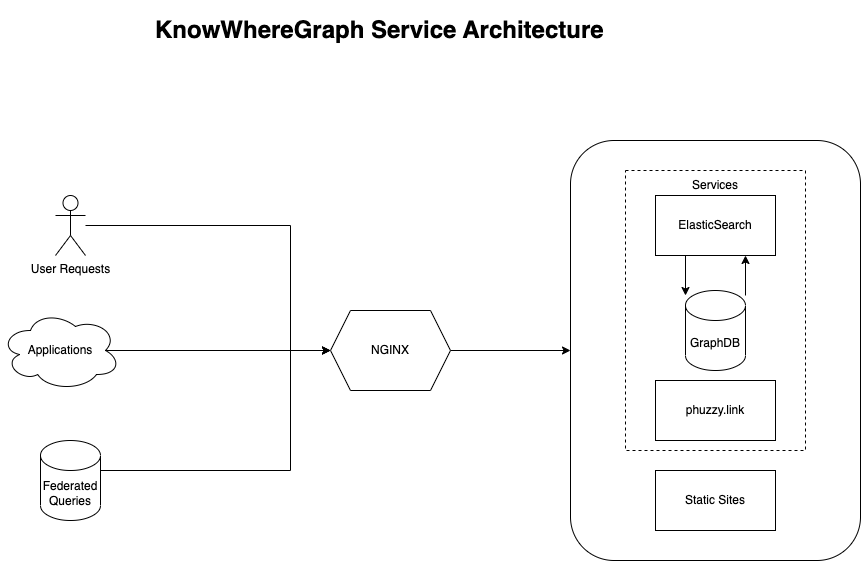
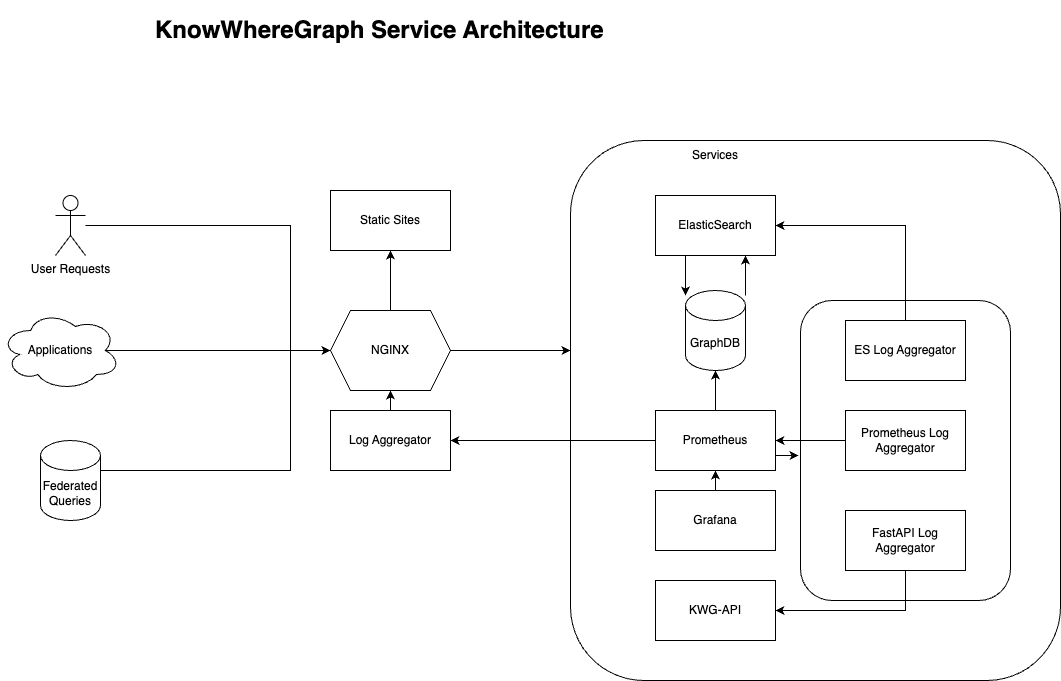
Update architecture with kwg-api and log fetchers

diff --git a/architecture/README.md b/architecture/README.md
@@ -4,17 +4,11 @@ KnowWhereGraph's networking and service architecture
 
 ## Overview
 
-NGINX serves as the load balancer and reverse proxy to internal services. Several static sites are served directly by NGINX. These include the ontology description pages and the [faceted search](https://github.com/KnowWhereGraph/kwg-faceted-search). The files reside on the host's disk which is mounted by NGINX.
+NGINX serves as the load balancer and reverse proxy to internal services. Several static sites are served directly by NGINX. These include the ontology description pages, the [faceted search](https://github.com/KnowWhereGraph/kwg-faceted-search), the Node Browser, and void description file.
 
-ElasticSearch is the only service behind NGINX that's available to the public. GraphDB communicates with ElasticSearch through its [ES Connector](https://graphdb.ontotext.com/documentation/10.0/elasticsearch-graphdb-connector.html).
 
 ### Architecture Diagram
 
 The diagram below shows the services and static sites behind NGINX.
 
 ![](./architecture.png)
-
-### Gotcha's
-
-- The SPARQL endpoint is routed through phuzzy.link
-- Static sites are served through phuzzy.link
